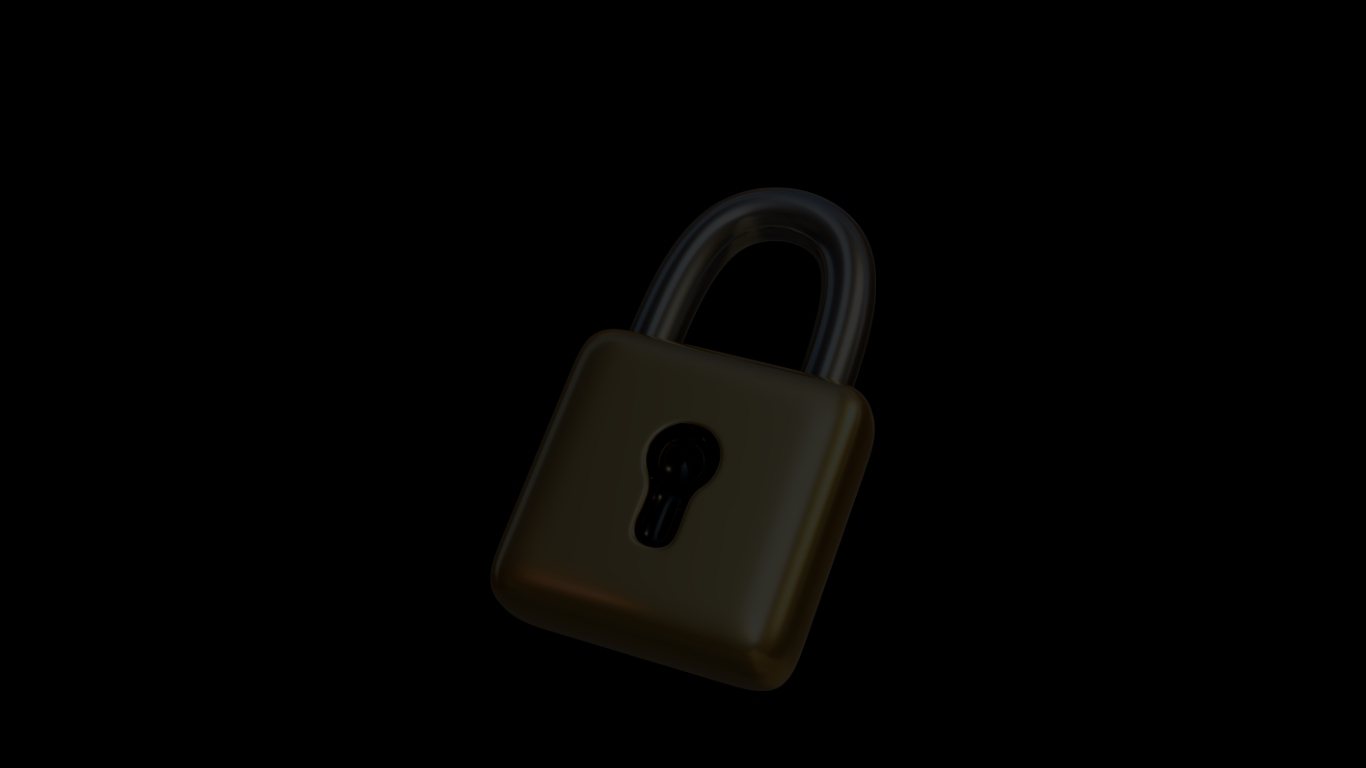
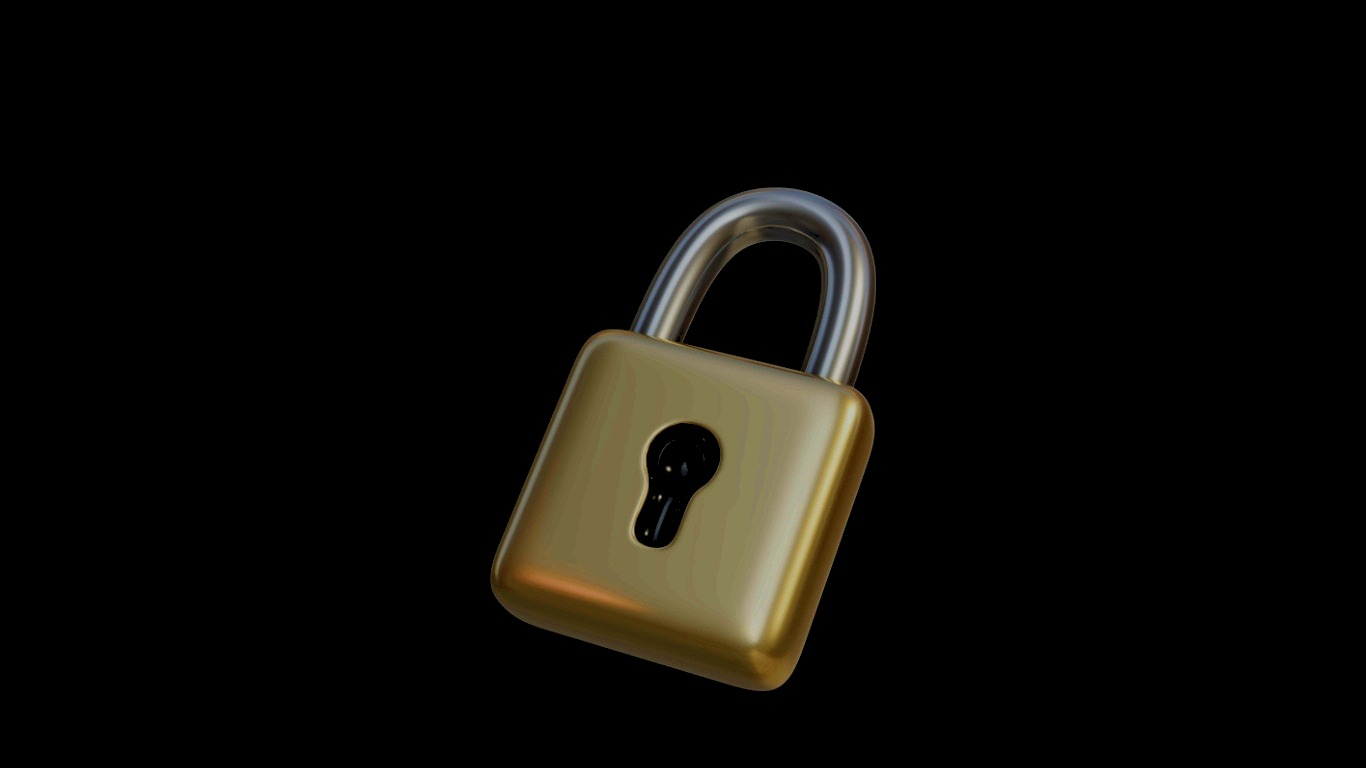
Brighten preview2 BLUNANA, LP, and Utility page art.
Same fade issue as the earlier Juice/B3BS rebuild — source assets were too dark against black, so lift them for desktop and mobile.

Changed region(s): [[0.3382, 0.2188, 0.6457, 0.9062]]

diff --git a/css/preview2.css b/css/preview2.css
@@ -133,10 +133,10 @@ body.p2 {
 .p2-page--home      { background-image: none; }
 .p2-page--mnk3ys    { background-image: url('/assets/preview2/mnk3ys-landscape.jpg'); }
 .p2-page--zmb3ys    { background-image: url('/assets/preview2/zmb3ys-landscape.jpg'); }
-.p2-page--blunana   { background-image: url('/assets/preview2/blunana-landscape.jpg'); }
+.p2-page--blunana   { background-image: url('/assets/preview2/blunana-landscape.jpg?v=2'); }
 .p2-page--games     { background-image: none; }
-.p2-page--lp        { background-image: url('/assets/preview2/lp-landscape.jpg'); }
-.p2-page--utility   { background-image: url('/assets/preview2/utility-landscape.jpg'); }
+.p2-page--lp        { background-image: url('/assets/preview2/lp-landscape.jpg?v=2'); }
+.p2-page--utility   { background-image: url('/assets/preview2/utility-landscape.jpg?v=2'); }
 .p2-page--juice     { background-image: url('/assets/preview2/juice-landscape.jpg?v=2'); }
 .p2-page--juicebags { background-image: url('/assets/preview2/juicebags-landscape.jpg?v=2'); }
 .p2-page--b3bs      { background-image: url('/assets/preview2/b3bs-landscape.jpg?v=2'); }
@@ -1539,10 +1539,10 @@ body.p2 {
   .p2-page--home      { background-image: url('/assets/preview2/home-portrait.jpg'); }
   .p2-page--mnk3ys    { background-image: url('/assets/preview2/mnk3ys-portrait.jpg'); }
   .p2-page--zmb3ys    { background-image: url('/assets/preview2/zmb3ys-portrait.jpg'); }
-  .p2-page--blunana   { background-image: url('/assets/preview2/blunana-portrait.jpg'); }
+  .p2-page--blunana   { background-image: url('/assets/preview2/blunana-portrait.jpg?v=2'); }
   .p2-page--games     { background-image: none; }
-  .p2-page--lp        { background-image: url('/assets/preview2/lp-portrait.jpg'); }
-  .p2-page--utility   { background-image: url('/assets/preview2/utility-portrait.jpg'); }
+  .p2-page--lp        { background-image: url('/assets/preview2/lp-portrait.jpg?v=2'); }
+  .p2-page--utility   { background-image: url('/assets/preview2/utility-portrait.jpg?v=2'); }
   .p2-page--juice     { background-image: url('/assets/preview2/juice-portrait.jpg'); }
   .p2-page--juicebags { background-image: url('/assets/preview2/juicebags-portrait.jpg'); }
   .p2-page--b3bs      { background-image: url('/assets/preview2/b3bs-portrait.jpg'); }

diff --git a/preview2/index.html b/preview2/index.html
@@ -18,7 +18,7 @@
   <link rel="preconnect" href="https://fonts.googleapis.com" />
   <link rel="preconnect" href="https://fonts.gstatic.com" crossorigin />
   <link href="https://fonts.googleapis.com/css2?family=IBM+Plex+Mono:wght@400;500&family=Nunito:wght@800;900&family=Poppins:wght@600;700;800&display=swap" rel="stylesheet" />
-  <link rel="stylesheet" href="/css/preview2.css?v=68" />
+  <link rel="stylesheet" href="/css/preview2.css?v=69" />
 </head>
 <body class="p2">
   <header class="p2-nav" id="p2-nav">
